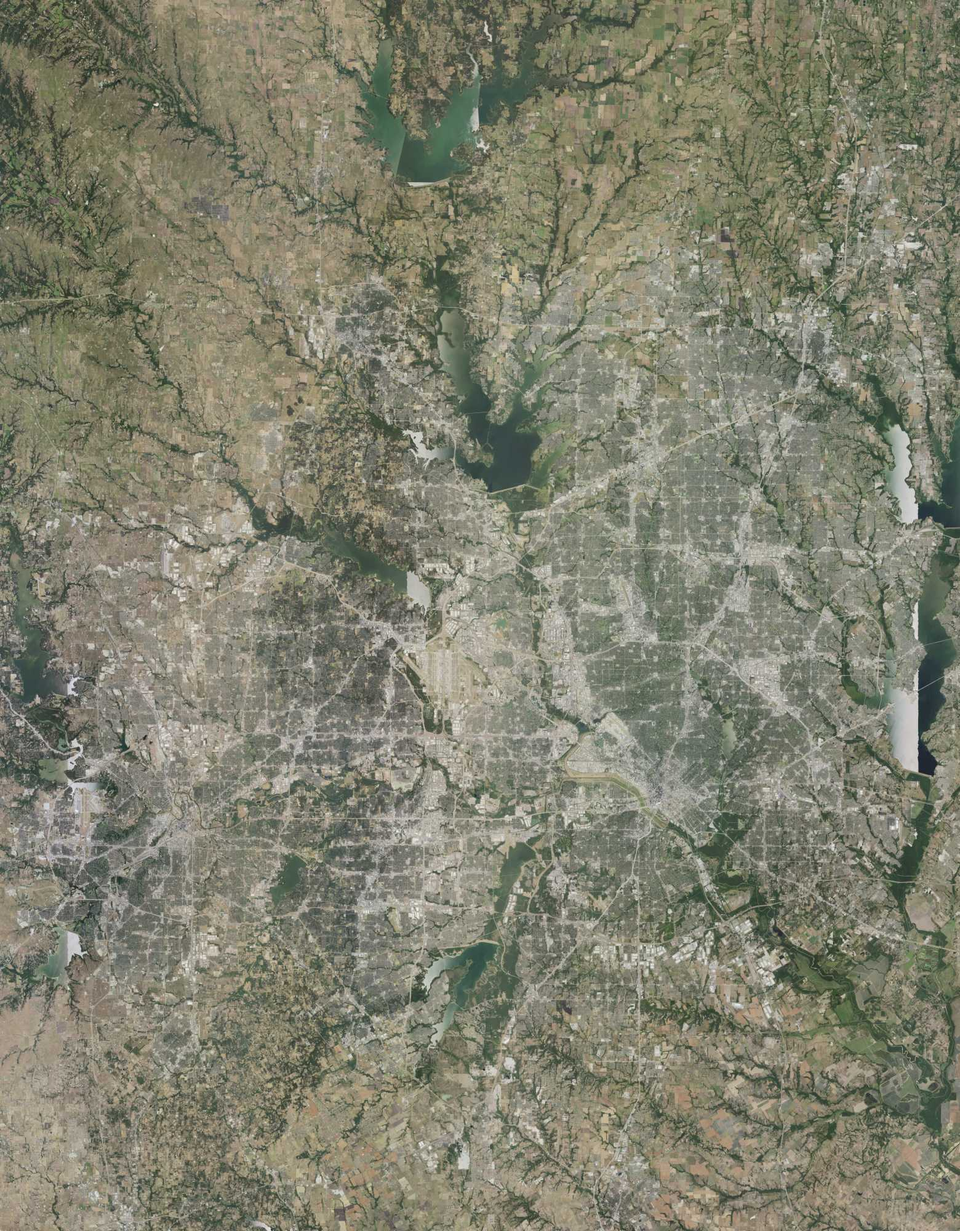
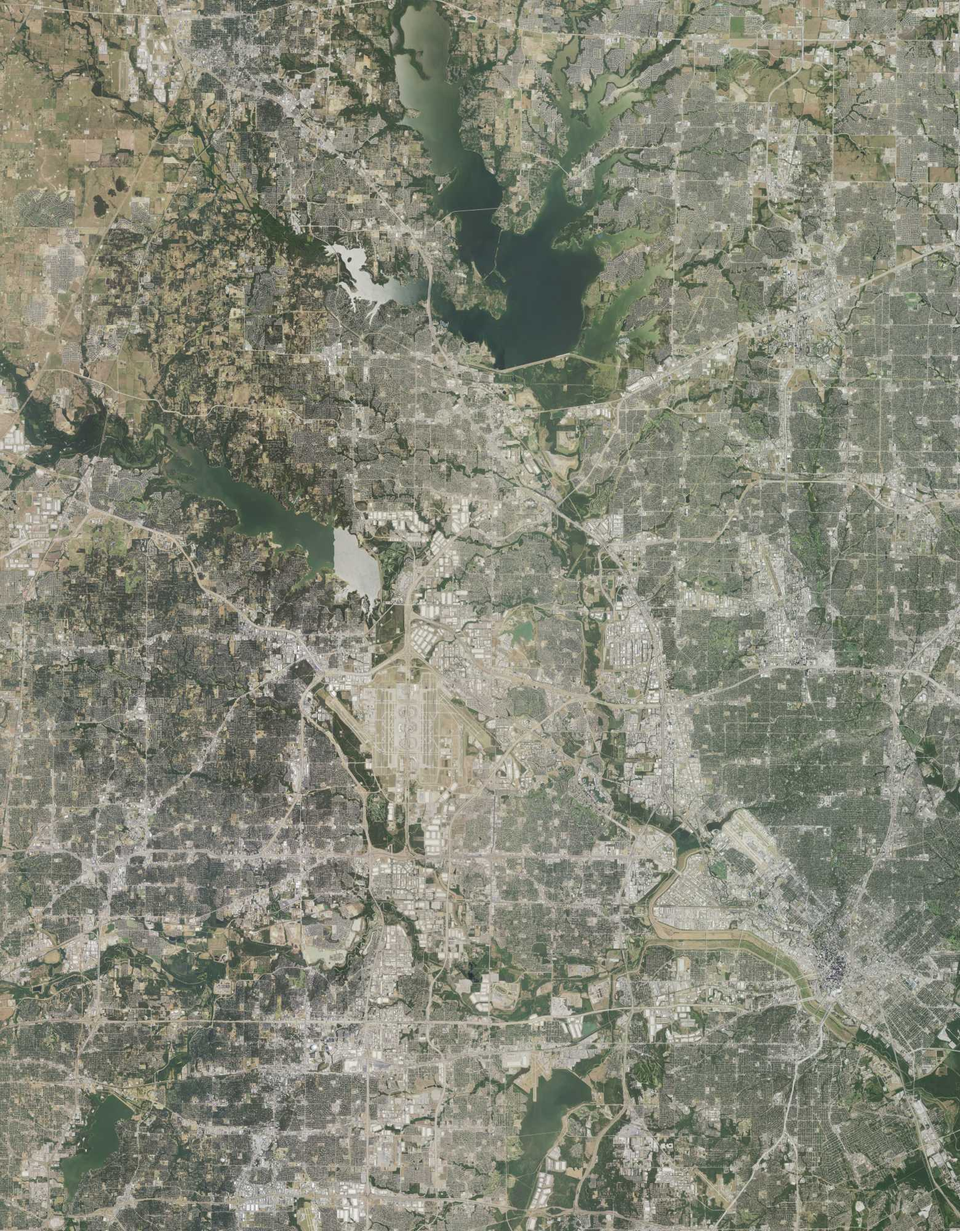
Landing hero: make the metro backdrop visible
The backdrop was loading but hidden: a 95% overlay sat over imagery at a
zoom where the metro reads as texture. Zoom in one level (Dallas and Fort
Worth both in view, highways and lakes recognizable), lighten the overlay
with a text shadow for legibility, and export 2560px wide so large
monitors don't show bare edges.

diff --git a/web/src/pages/public/LawnQuoteLanding.tsx b/web/src/pages/public/LawnQuoteLanding.tsx
@@ -254,11 +254,11 @@ export function LawnQuoteLanding() {
             alt=""
             fetchPriority="high"
             style={{ filter: BACKDROP.filter }}
-            className="absolute top-1/2 left-1/2 h-auto w-[780px] max-w-none -translate-x-1/2 -translate-y-1/2 md:w-[1920px]"
+            className="absolute top-1/2 left-1/2 h-auto w-[780px] max-w-none -translate-x-1/2 -translate-y-1/2 md:w-[2560px]"
           />
         </picture>
         <div
-          className={`pointer-events-none absolute inset-0 -z-10 bg-gradient-to-r from-forest-900/95 via-forest-900/75 to-forest-900/35 transition-opacity duration-700 ${
+          className={`pointer-events-none absolute inset-0 -z-10 bg-gradient-to-r from-forest-900/80 via-forest-900/45 to-forest-900/10 transition-opacity duration-700 ${
             flying ? 'opacity-0' : ''
           }`}
         />
@@ -267,7 +267,7 @@ export function LawnQuoteLanding() {
           <CallButton dark />
         </header>
         <div
-          className={`container-x grid min-h-[calc(88svh-4rem)] items-center gap-10 pt-6 pb-16 transition-opacity duration-300 lg:grid-cols-[1.4fr_1fr] ${
+          className={`container-x grid min-h-[calc(88svh-4rem)] items-center gap-10 pt-6 pb-16 transition-opacity duration-300 [text-shadow:0_1px_12px_rgba(12,28,19,0.7)] lg:grid-cols-[1.4fr_1fr] ${
             flying ? 'pointer-events-none opacity-0' : ''
           }`}
         >

diff --git a/web/src/content/landing.ts b/web/src/content/landing.ts
@@ -8,8 +8,8 @@
  */
 export const BACKDROP = {
   center: [32.95, -97.0] as [number, number],
-  zoom: 10,
-  wide: { src: '/images/dfw-metro-wide.jpg', width: 1920 },
+  zoom: 11,
+  wide: { src: '/images/dfw-metro-wide.jpg', width: 2560 },
   tall: { src: '/images/dfw-metro-tall.jpg', width: 780 },
   /** Color correction so the aerial image's tone matches the live satellite tiles it cross-fades into. */
   filter: 'saturate(1.35) contrast(1.12) brightness(0.88)',
